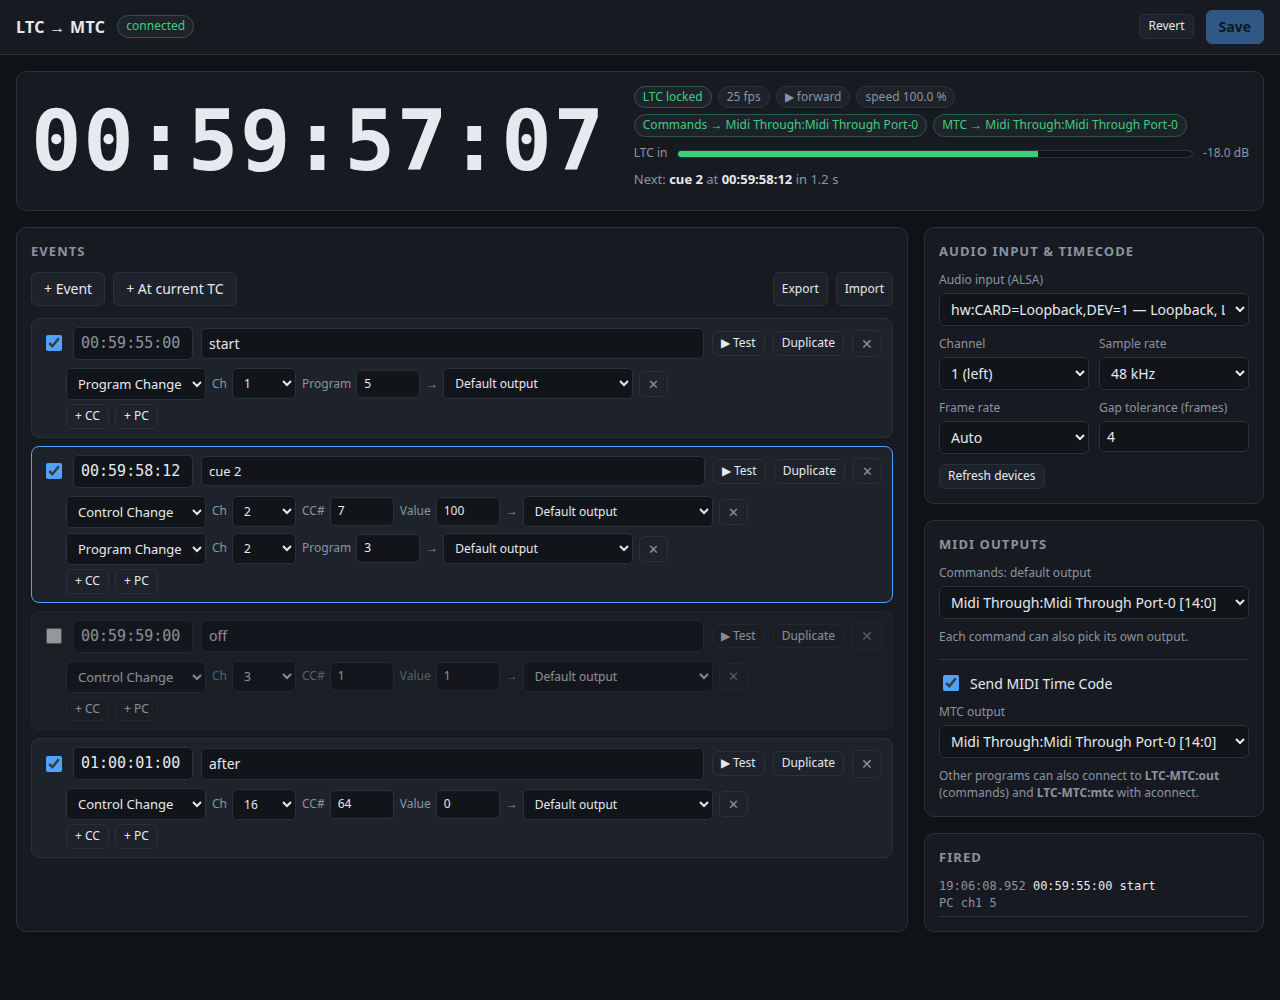
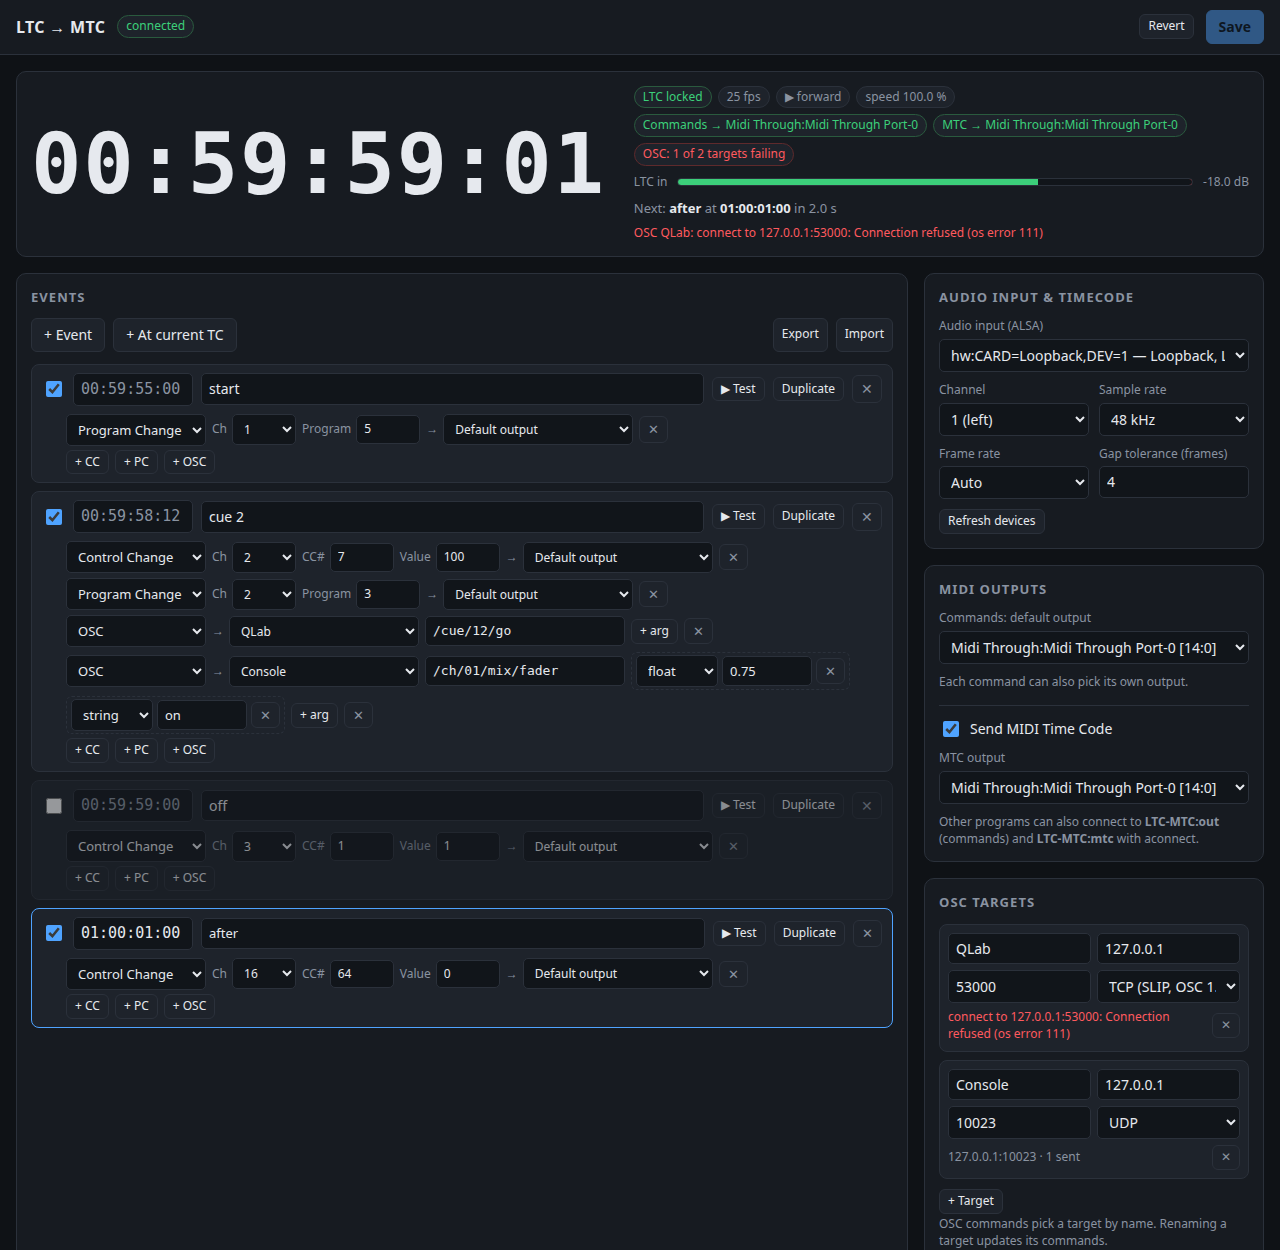
OSC over TCP (SLIP OSC 1.1 and length-prefixed OSC 1.0), v0.3
- Protocols "tcp" (SLIP, double END, e.g. QLab) and "tcp-len" (int32 length).
- One connection thread per TCP target: connects ahead of the first cue, reconnects every
  2 s while down, retries once on a broken connection, drops a cue more than 1 s late,
  reads and discards replies, notices a closed connection.
- OSC status published every 250 ms; README: OSC section, config example, tests, status.
- scripts/osc-reconnect-test.sh; tested on the Pi 5: both framings end to end, target
  down/up/restart.

diff --git a/web/index.html b/web/index.html
@@ -424,7 +424,7 @@ function renderArg(c, a, i) {
 }
 
 /* ---------- OSC targets ---------- */
-const PROTOCOLS = [["udp", "UDP"]];
+const PROTOCOLS = [["udp", "UDP"], ["tcp", "TCP (SLIP, OSC 1.1)"], ["tcp-len", "TCP (length, OSC 1.0)"]];
 function renderTargets() {
   const box = $("osc-targets");
   box.innerHTML = "";

diff --git a/src/osc.rs b/src/osc.rs
@@ -7,10 +7,11 @@
 use crate::App;
 use serde::{Deserialize, Serialize};
 use std::collections::HashMap;
-use std::net::{IpAddr, SocketAddr, ToSocketAddrs, UdpSocket};
+use std::io::{Read, Write};
+use std::net::{IpAddr, SocketAddr, TcpStream, ToSocketAddrs, UdpSocket};
 use std::sync::mpsc::{channel, Receiver, RecvTimeoutError, Sender};
 use std::sync::{Arc, Mutex};
-use std::time::Duration;
+use std::time::{Duration, Instant};
 
 #[derive(Clone, Debug, PartialEq, Serialize, Deserialize)]
 pub struct OscTarget {
@@ -18,7 +19,8 @@ pub struct OscTarget {
     /// Host name or IP address.
     pub host: String,
     pub port: u16,
-    /// "udp".
+    /// "udp", "tcp" (SLIP framing, OSC 1.1, e.g. QLab) or "tcp-len" (int32 length
+    /// prefix, OSC 1.0).
     #[serde(default = "udp")]
     pub protocol: String,
 }
@@ -27,7 +29,30 @@ fn udp() -> String {
     "udp".into()
 }
 
-pub const PROTOCOLS: [&str; 1] = ["udp"];
+pub const PROTOCOLS: [&str; 3] = ["udp", "tcp", "tcp-len"];
+
+/// A packet framed for a stream: SLIP with an END byte on both sides (OSC 1.1), or an
+/// int32 big-endian length prefix (OSC 1.0).
+pub fn frame(protocol: &str, packet: &[u8]) -> Vec<u8> {
+    const END: u8 = 0xC0;
+    const ESC: u8 = 0xDB;
+    if protocol == "tcp-len" {
+        let mut v = (packet.len() as u32).to_be_bytes().to_vec();
+        v.extend_from_slice(packet);
+        return v;
+    }
+    let mut v = Vec::with_capacity(packet.len() + 4);
+    v.push(END);
+    for &b in packet {
+        match b {
+            END => v.extend_from_slice(&[ESC, 0xDC]),
+            ESC => v.extend_from_slice(&[ESC, 0xDD]),
+            _ => v.push(b),
+        }
+    }
+    v.push(END);
+    v
+}
 
 /// An OSC argument; JSON {"type": "int", "value": 1}.
 #[derive(Clone, Debug, PartialEq, Serialize, Deserialize)]
@@ -148,6 +173,15 @@ struct Conn {
     target: OscTarget,
     sent: u64,
     send_error: Option<String>,
+    /// TCP: the connection thread and what it reports.
+    tcp: Option<(Sender<(Instant, Vec<u8>)>, Arc<Mutex<TcpState>>)>,
+}
+
+#[derive(Default)]
+struct TcpState {
+    connected: bool,
+    sent: u64,
+    error: Option<String>,
 }
 
 struct Worker {
@@ -167,7 +201,8 @@ fn run(app: Arc<App>, rx: Receiver<OscMsg>) {
     }
     let mut w = Worker { app, udp: None, conns: HashMap::new(), resolved, resolver: rtx };
     loop {
-        match rx.recv_timeout(Duration::from_secs(1)) {
+        // Short, so TCP link changes reach the interface quickly.
+        match rx.recv_timeout(Duration::from_millis(250)) {
             Ok(OscMsg::Targets(t)) => w.set_targets(t),
             Ok(OscMsg::Send { target, packet }) => w.send(&target, &packet),
             Err(RecvTimeoutError::Timeout) => {}
@@ -197,7 +232,20 @@ impl Worker {
         for t in &targets {
             let conn = match old.remove(&t.name) {
                 Some(c) if c.target == *t => c,
-                _ => Conn { target: t.clone(), sent: 0, send_error: None },
+                _ => {
+                    // Dropping the old Conn ends its TCP thread, which closes the connection.
+                    let tcp = (t.protocol != "udp").then(|| {
+                        let (tx, rx) = channel();
+                        let state = Arc::new(Mutex::new(TcpState::default()));
+                        let (tt, st, rs) = (t.clone(), state.clone(), self.resolved.clone());
+                        std::thread::Builder::new()
+                            .name(format!("osc-tcp-{}", t.name))
+                            .spawn(move || tcp_link(tt, rx, st, rs))
+                            .unwrap();
+                        (tx, state)
+                    });
+                    Conn { target: t.clone(), sent: 0, send_error: None, tcp }
+                }
             };
             self.conns.insert(t.name.clone(), conn);
         }
@@ -209,6 +257,10 @@ impl Worker {
             eprintln!("osc: unknown target '{target}'");
             return;
         };
+        if let Some((tx, _)) = &c.tcp {
+            let _ = tx.send((Instant::now(), frame(&c.target.protocol, packet)));
+            return;
+        }
         let addr = self.resolved.lock().unwrap().get(target).cloned();
         let res = match addr {
             None => Err(format!("{}: still looking up the name", c.target.host)),
@@ -243,6 +295,11 @@ impl Worker {
                     Some(Err(e)) => (None, Some(e.clone())),
                     None => (None, None),
                 };
+                if let Some((_, st)) = &c.tcp {
+                    let st = st.lock().unwrap();
+                    let error = st.error.clone().or(lookup_err).or_else(|| (!st.connected).then(|| "not connected".to_string()));
+                    return TargetStatus { name: c.target.name.clone(), addr, ok: error.is_none(), error, sent: st.sent };
+                }
                 let error = c.send_error.clone().or(lookup_err);
                 TargetStatus { name: c.target.name.clone(), addr, ok: error.is_none(), error, sent: c.sent }
             })
@@ -250,6 +307,97 @@ impl Worker {
         drop(r);
         list.sort_by(|a, b| a.name.cmp(&b.name));
         self.app.status.lock().unwrap().osc = list;
+    }
+}
+
+/// One TCP target: keeps a connection open (reconnecting every 2 s while the target is
+/// down), writes the framed packets, and discards what the target sends back. A packet more
+/// than a second old (the connection was down) is dropped rather than sent late.
+fn tcp_link(t: OscTarget, rx: Receiver<(Instant, Vec<u8>)>, state: Arc<Mutex<TcpState>>, resolved: Resolved) {
+    let mut stream: Option<TcpStream> = None;
+    let mut next_try = Instant::now();
+    let set = |connected: bool, error: Option<String>| {
+        let mut s = state.lock().unwrap();
+        s.connected = connected;
+        s.error = error;
+    };
+    let connect = |next_try: &mut Instant| -> Option<TcpStream> {
+        *next_try = Instant::now() + Duration::from_secs(2);
+        let addr = match resolved.lock().unwrap().get(&t.name).cloned() {
+            Some(Ok(a)) => a,
+            _ => return None, // the status shows the lookup error
+        };
+        match TcpStream::connect_timeout(&addr, Duration::from_millis(1000)) {
+            Ok(s) => {
+                let _ = s.set_nodelay(true);
+                let _ = s.set_write_timeout(Some(Duration::from_millis(500)));
+                eprintln!("osc {}: connected to {addr}", t.name);
+                set(true, None);
+                Some(s)
+            }
+            Err(e) => {
+                set(false, Some(format!("connect to {addr}: {e}")));
+                None
+            }
+        }
+    };
+    let mut junk = [0u8; 2048];
+    loop {
+        if stream.is_none() && Instant::now() >= next_try {
+            stream = connect(&mut next_try);
+        }
+        match rx.recv_timeout(Duration::from_millis(200)) {
+            Ok((at, bytes)) => {
+                if stream.is_none() {
+                    stream = connect(&mut next_try);
+                }
+                let Some(s) = stream.as_mut() else { continue };
+                if at.elapsed() > Duration::from_secs(1) {
+                    set(true, Some("a cue was dropped: more than 1 s late".into()));
+                    continue;
+                }
+                match s.write_all(&bytes) {
+                    Ok(()) => {
+                        let mut st = state.lock().unwrap();
+                        st.sent += 1;
+                        st.error = None;
+                    }
+                    Err(e) => {
+                        // Typically the target restarted: one new connection, one retry.
+                        stream = connect(&mut next_try);
+                        let retry = stream.as_mut().map(|s| s.write_all(&bytes));
+                        match retry {
+                            Some(Ok(())) => state.lock().unwrap().sent += 1,
+                            _ => {
+                                stream = None;
+                                set(false, Some(format!("send: {e}")));
+                            }
+                        }
+                    }
+                }
+            }
+            Err(RecvTimeoutError::Timeout) => {}
+            Err(RecvTimeoutError::Disconnected) => return,
+        }
+        // Read what the target sent (replies), and notice when it closed the connection.
+        if let Some(s) = stream.as_mut() {
+            let _ = s.set_nonblocking(true);
+            let closed = loop {
+                match s.read(&mut junk) {
+                    Ok(0) => break true,
+                    Ok(_) => continue,
+                    Err(e) if e.kind() == std::io::ErrorKind::WouldBlock => break false,
+                    Err(_) => break true,
+                }
+            };
+            let _ = s.set_nonblocking(false);
+            if closed {
+                eprintln!("osc {}: connection closed by the target", t.name);
+                stream = None;
+                set(false, Some("connection closed by the target".into()));
+                next_try = Instant::now() + Duration::from_millis(500);
+            }
+        }
     }
 }
 
@@ -286,6 +434,45 @@ mod tests {
         // Booleans have a type tag and no data; no arguments still send the "," tag.
         assert_eq!(encode("/go", &[OscArg::Bool(true), OscArg::Bool(false)]), b"/go\0,TF\0".to_vec());
         assert_eq!(encode("/go", &[]), b"/go\0,\0\0\0".to_vec());
+    }
+
+    #[test]
+    fn framing() {
+        assert_eq!(frame("tcp-len", b"/a\0\0"), vec![0, 0, 0, 4, b'/', b'a', 0, 0]);
+        assert_eq!(frame("tcp", &[1, 0xC0, 2, 0xDB, 3]), vec![0xC0, 1, 0xDB, 0xDC, 2, 0xDB, 0xDD, 3, 0xC0]);
+    }
+
+    /// A real TCP round trip through the connection thread, for both framings.
+    #[test]
+    fn tcp_link_sends() {
+        for proto in ["tcp", "tcp-len"] {
+            let srv = std::net::TcpListener::bind("127.0.0.1:0").unwrap();
+            let addr = srv.local_addr().unwrap();
+            let t = OscTarget { name: "t".into(), host: "127.0.0.1".into(), port: addr.port(), protocol: proto.into() };
+            let resolved: Resolved = Arc::default();
+            resolved.lock().unwrap().insert("t".into(), Ok(addr));
+            let state = Arc::new(Mutex::new(TcpState::default()));
+            let (tx, rx) = channel();
+            let (st, rs, tt) = (state.clone(), resolved.clone(), t.clone());
+            let h = std::thread::spawn(move || tcp_link(tt, rx, st, rs));
+            let (mut conn, _) = srv.accept().unwrap();
+            let packet = encode("/cue/1/go", &[OscArg::Int(5)]);
+            tx.send((Instant::now(), frame(proto, &packet))).unwrap();
+            let want = frame(proto, &packet);
+            let mut got = vec![0u8; want.len()];
+            conn.read_exact(&mut got).unwrap();
+            assert_eq!(got, want, "{proto}");
+            // Replies are read and discarded without disturbing the link.
+            conn.write_all(b"reply").unwrap();
+            tx.send((Instant::now(), frame(proto, &packet))).unwrap();
+            conn.read_exact(&mut got).unwrap();
+            assert_eq!(got, want);
+            std::thread::sleep(Duration::from_millis(300));
+            assert!(state.lock().unwrap().connected);
+            assert_eq!(state.lock().unwrap().sent, 2);
+            drop(tx);
+            h.join().unwrap();
+        }
     }
 
     #[test]

diff --git a/README.md b/README.md
@@ -11,8 +11,12 @@ An SMPTE LTC reader for the Raspberry Pi (3 and later) and other Linux machines:
   Control Change (channel, controller, value) and Program Change (channel, program) commands.
   Each command goes to the default commands output or to an output of its own, so one event
   can drive several devices;
+- **sends OSC messages at given timecodes**, in the same events as the MIDI commands: an OSC
+  address with typed arguments, sent to a target from a list (QLab, a console, ...) over UDP
+  or TCP;
 - has a **web interface** to choose the audio input and channel, the MIDI outputs (ALSA
-  sequencer ports), the frame rate, and to edit, test, import and export the events.
+  sequencer ports), the OSC targets, the frame rate, and to edit, test, import and export
+  the events.
 
 ![screenshot](docs/screenshot.png)
 
@@ -55,11 +59,15 @@ To show the interface on a screen attached to the Pi, run
    off and choose its output, which may be another port. Press **Save**. The level meter
    and the `LTC locked` badge show that the signal arrives, and the badges show where the
    commands and the MTC go.
-3. **Events**: use **+ Event**, or **+ At current TC** while the timecode runs. Set the time
-   and add commands with **+ CC** and **+ PC**. Each command's **→** menu picks its output:
-   *Default output* or a specific port. **▶ Test** sends an event's commands immediately.
-   **Save** (or Ctrl+S) stores the list and makes it active.
-4. **Fired** lists what was sent, with the wall clock time and the timecode.
+3. **OSC targets** (if you use OSC): add each destination once with **+ Target**: a name,
+   the host (IP address or name), the port and the protocol. Each target shows its address and
+   the number of messages sent, or what is wrong.
+4. **Events**: use **+ Event**, or **+ At current TC** while the timecode runs. Set the time
+   and add commands with **+ CC**, **+ PC** and **+ OSC**. A MIDI command's **→** menu picks
+   its output: *Default output* or a specific port. An OSC command picks its target, has an
+   address (`/cue/12/go`) and any number of arguments (**+ arg**). **▶ Test** sends an
+   event's commands immediately. **Save** (or Ctrl+S) stores the list and makes it active.
+5. **Fired** lists what was sent, with the wall clock time and the timecode.
 
 Outputs are stored by port name ("Client:Port"), so a USB MIDI interface is found again
 after it is unplugged, plugged in elsewhere or renumbered. Missing outputs are shown in red at
@@ -67,6 +75,24 @@ the top of the page.
 
 Channels are 1 to 16. Controller, value and program numbers are 0 to 127. Many devices show
 programs as 1 to 128, so program 0 there is "1".
+
+### OSC
+
+| Protocol | Framing | For |
+|---|---|---|
+| UDP | one message per datagram | most devices and consoles |
+| TCP (SLIP, OSC 1.1) | SLIP, an END byte on both sides | QLab and other OSC 1.1 software |
+| TCP (length, OSC 1.0) | int32 length before each message | OSC 1.0 TCP receivers |
+
+Arguments are `int` (32 bit), `float` (32 bit), `string` and `bool` (sent as the types `T`
+and `F`). Every message is sent on its own; there are no bundles. Addresses start with `/`
+and have no spaces or pattern characters (`* ? , # [ ] { }`).
+
+Host names are looked up in the background at start, after every change and every 30
+seconds, so a slow or failing lookup never delays a cue. A TCP target is connected ahead of
+the first cue and reconnected every 2 seconds while it is down. If it restarts, the next cue
+opens a new connection. A cue that could not be sent within a second is dropped rather than
+sent late. Replies from the target are read and ignored.
 
 ### When events fire
 
@@ -115,27 +141,38 @@ An event in the config:
 ```
 
 A command without `output` uses `midi_output`, the default commands output. MTC uses
-`mtc_enabled` and `mtc_output`.
+`mtc_enabled` and `mtc_output`. OSC targets and an OSC command:
+
+```json
+"osc_targets": [ { "name": "QLab", "host": "192.168.1.20", "port": 53000, "protocol": "tcp" } ],
+...
+{ "type": "osc", "target": "QLab", "address": "/cue/12/go",
+  "args": [ { "type": "float", "value": 0.75 }, { "type": "string", "value": "on" } ] }
+```
 
 ## Testing without hardware
 
 `scripts/loopback-test.sh` loads `snd-aloop`, plays a generated LTC file into the loopback,
 runs ltc-mtc on it with Midi Through as the output, and shows what `aseqdump` received.
 `scripts/routing-test.sh` checks the routing: default commands, a command with its own
-output, and MTC on its own port, with MTC on and off.
+output, and MTC on its own port, with MTC on and off. `scripts/osc-test.sh [BINARY udp|tcp|tcp-len]`
+sends OSC to `scripts/osc-listen.py`. It covers all argument types, IP and named targets, a
+name that does not resolve, and the timing. `scripts/osc-reconnect-test.sh` stops and restarts
+a TCP target.
 `scripts/ui-demo.sh start|stop` keeps LTC running for a look at the web interface on port
 8088 (`LTC_DEMO_PORT` to change it).
 
 ## Status
 
-Version 0.2 (2026-10-20). Tested on a Raspberry Pi 5 (Raspberry Pi OS trixie, arm64) with
+Version 0.3 (2026-10-20). Tested on a Raspberry Pi 5 (Raspberry Pi OS trixie, arm64) with
 LTC played through `snd-aloop` at 24, 25, 29.97 drop-frame and 30 fps. The tests cover
 decoding, MTC (piece order, continuity, rate code), events on the exact frame, routing to
-separate outputs, MTC on and off, the systemd sandbox (real-time priority, saved settings),
+separate outputs, MTC on and off, OSC over UDP and both TCP framings (timing within a few
+milliseconds, a TCP target restarting), the systemd sandbox (real-time priority, saved settings),
 and the web interface.
 
-Not yet tested: a real Pi 3, LTC from a real source through a USB audio interface, and USB
-MIDI interfaces.
+Not yet tested: a real Pi 3, LTC from a real source through a USB audio interface, USB MIDI
+interfaces, and real OSC devices (QLab, consoles).
 
 ## Building
 
